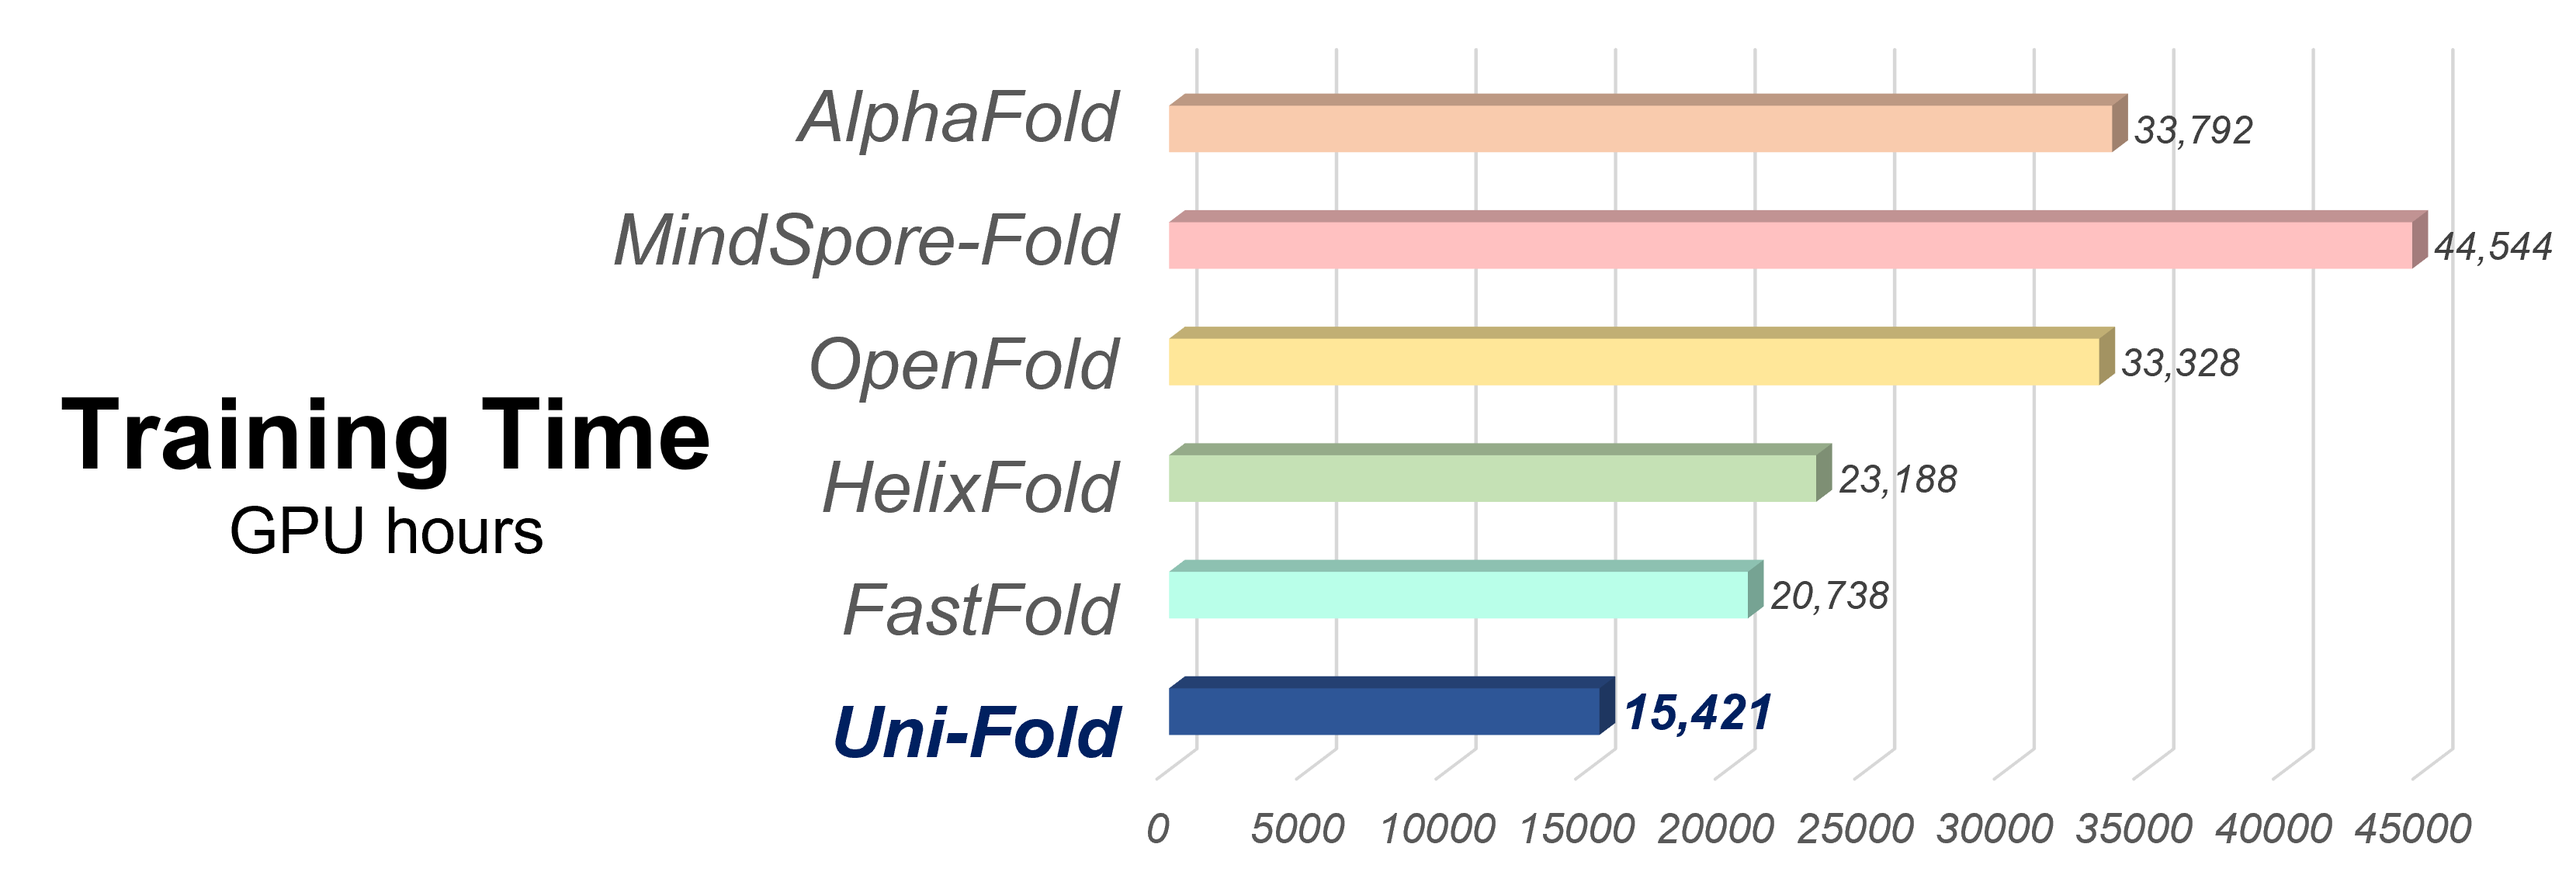
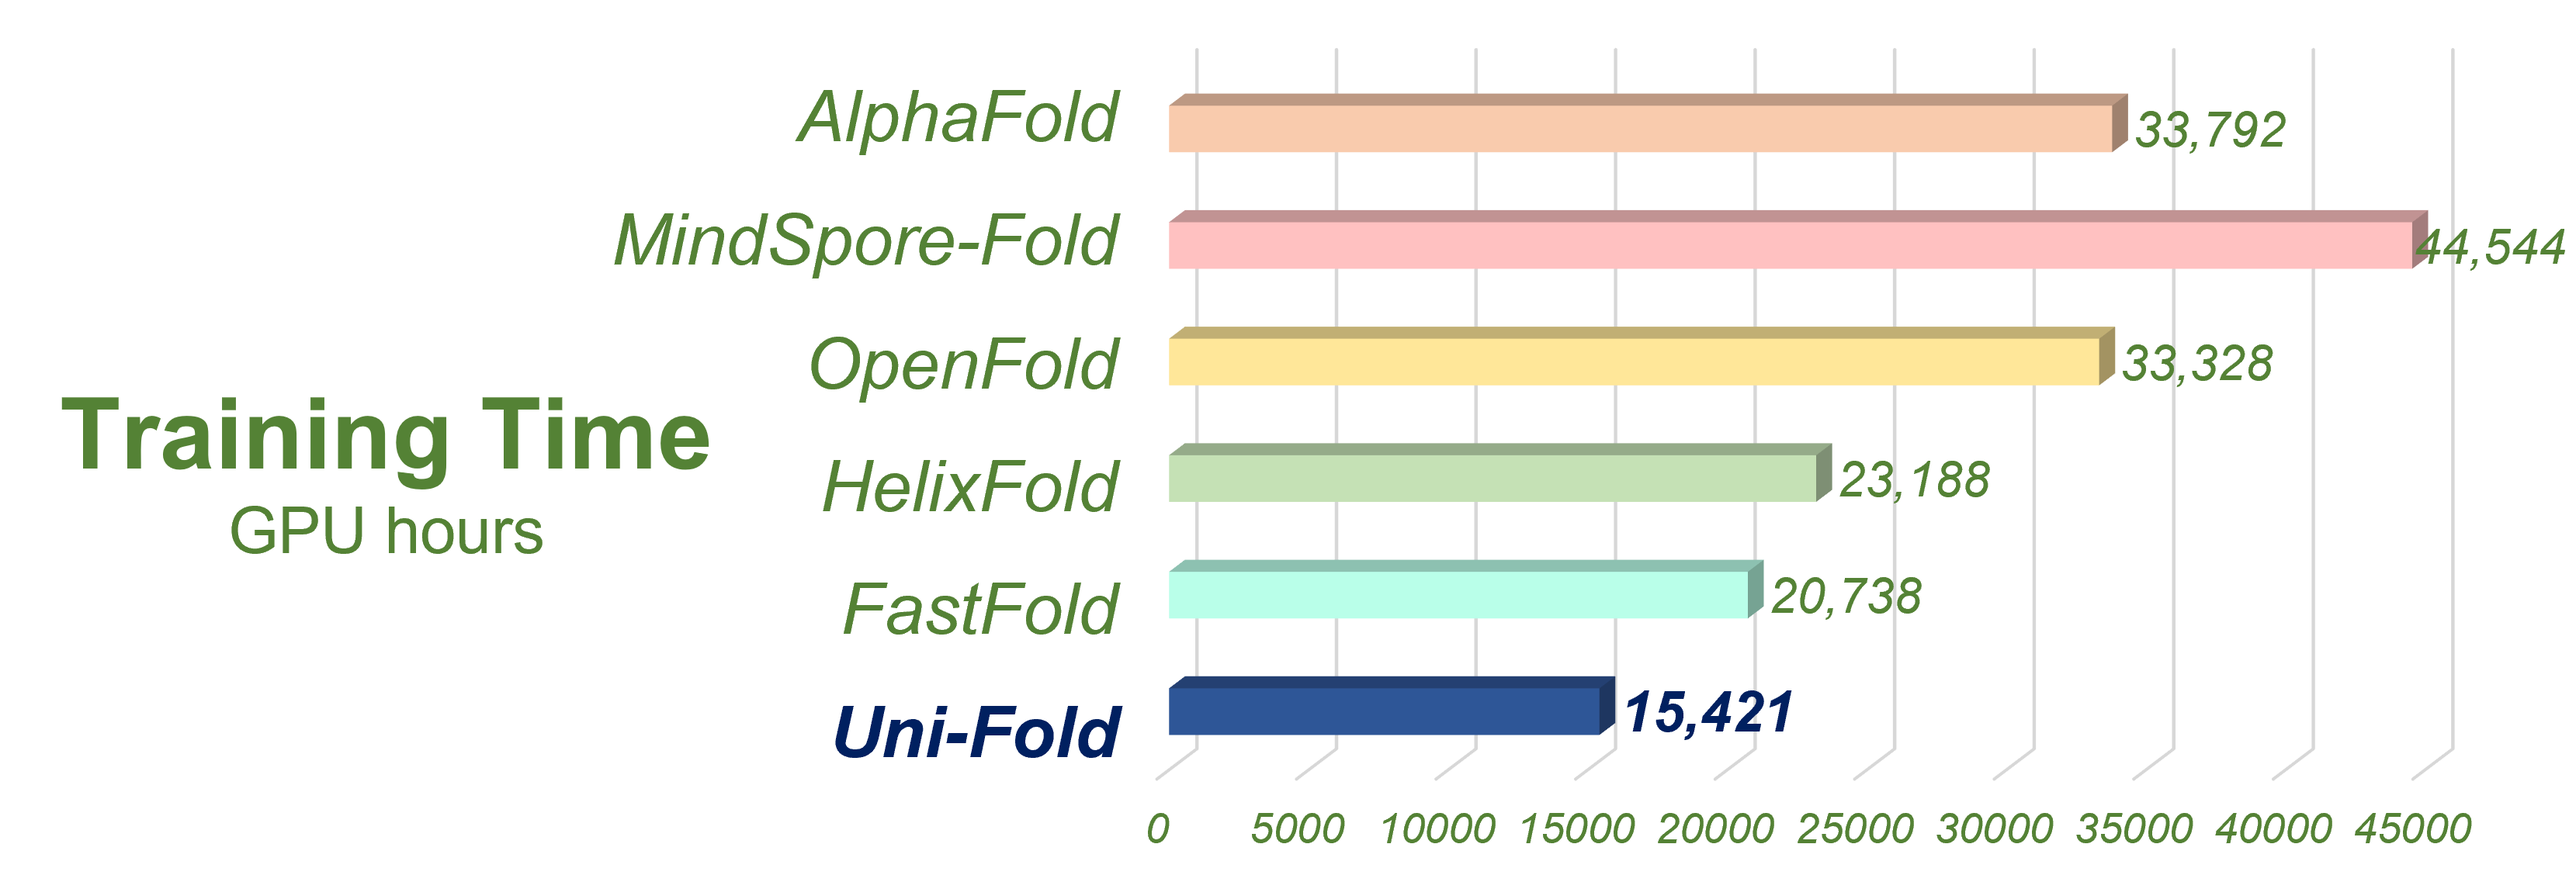
revert to green

diff --git a/README.md b/README.md
@@ -23,7 +23,7 @@ Figure 1. Uni-Fold successfully predicted the interaction between the nanobody a
 
 We evaluated Uni-Fold on PDB structures release after our training set with less than 40% template identity. The structures for evaluations are included in [`evaluation`](./evaluation). Uni-Fold enjoys similar monomer prediction accuracy and better multimer prediction accuracy compared with AlphaFold(-Multimer). We also benchmarked the efficiency of Uni-Fold. The end-to-end training speed of Uni-Fold is about 2.2 times of the official AlphaFold. More evaluation results and details are included in our [bioRxiv preprint](https://www.biorxiv.org/content/10.1101/2022.08.04.502811).
 
-![case](./img/accuracy.jpg)
+![case](./img/accuracy.png)
 <center>
 <small>
 Figure 2. Uni-Fold has similar performance on monomers and better performance on multimers compared with AlphaFold(-Multimer).
@@ -32,7 +32,7 @@ Figure 2. Uni-Fold has similar performance on monomers and better performance on
 
 &nbsp;
 
-![case](./img/train_time.jpg)
+![case](./img/train_time.png)
 <center>
 <small>
 Figure 3. Uni-Fold is to our knowledge the fastest implemetation of AlphaFold.
